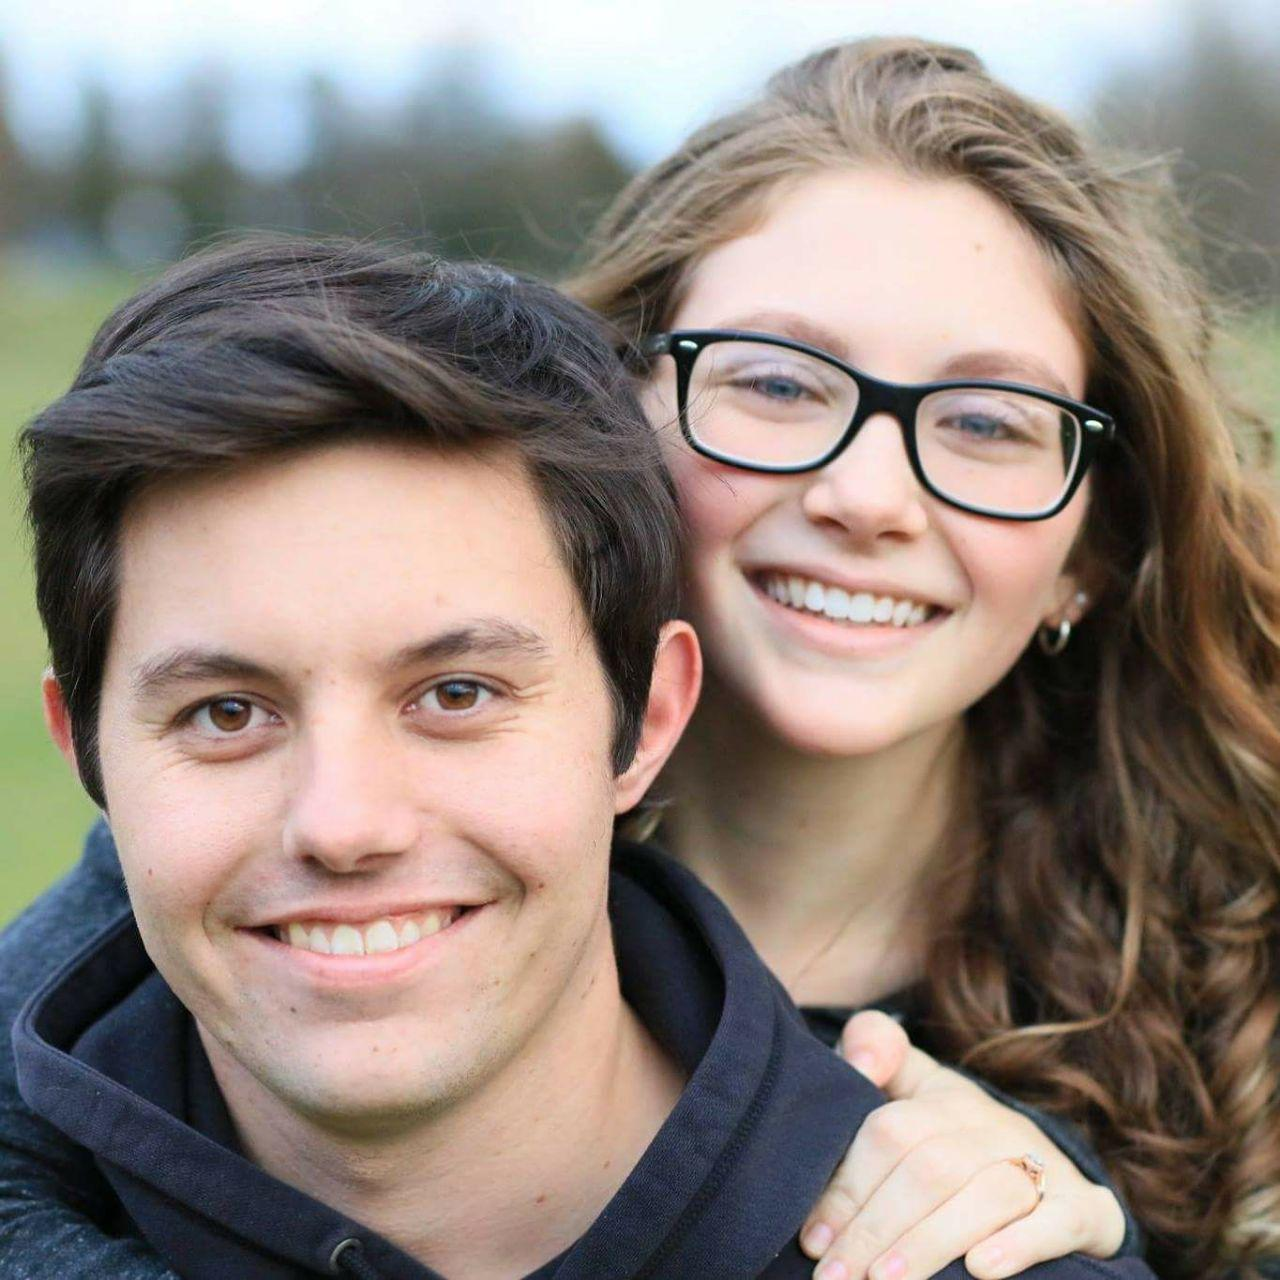
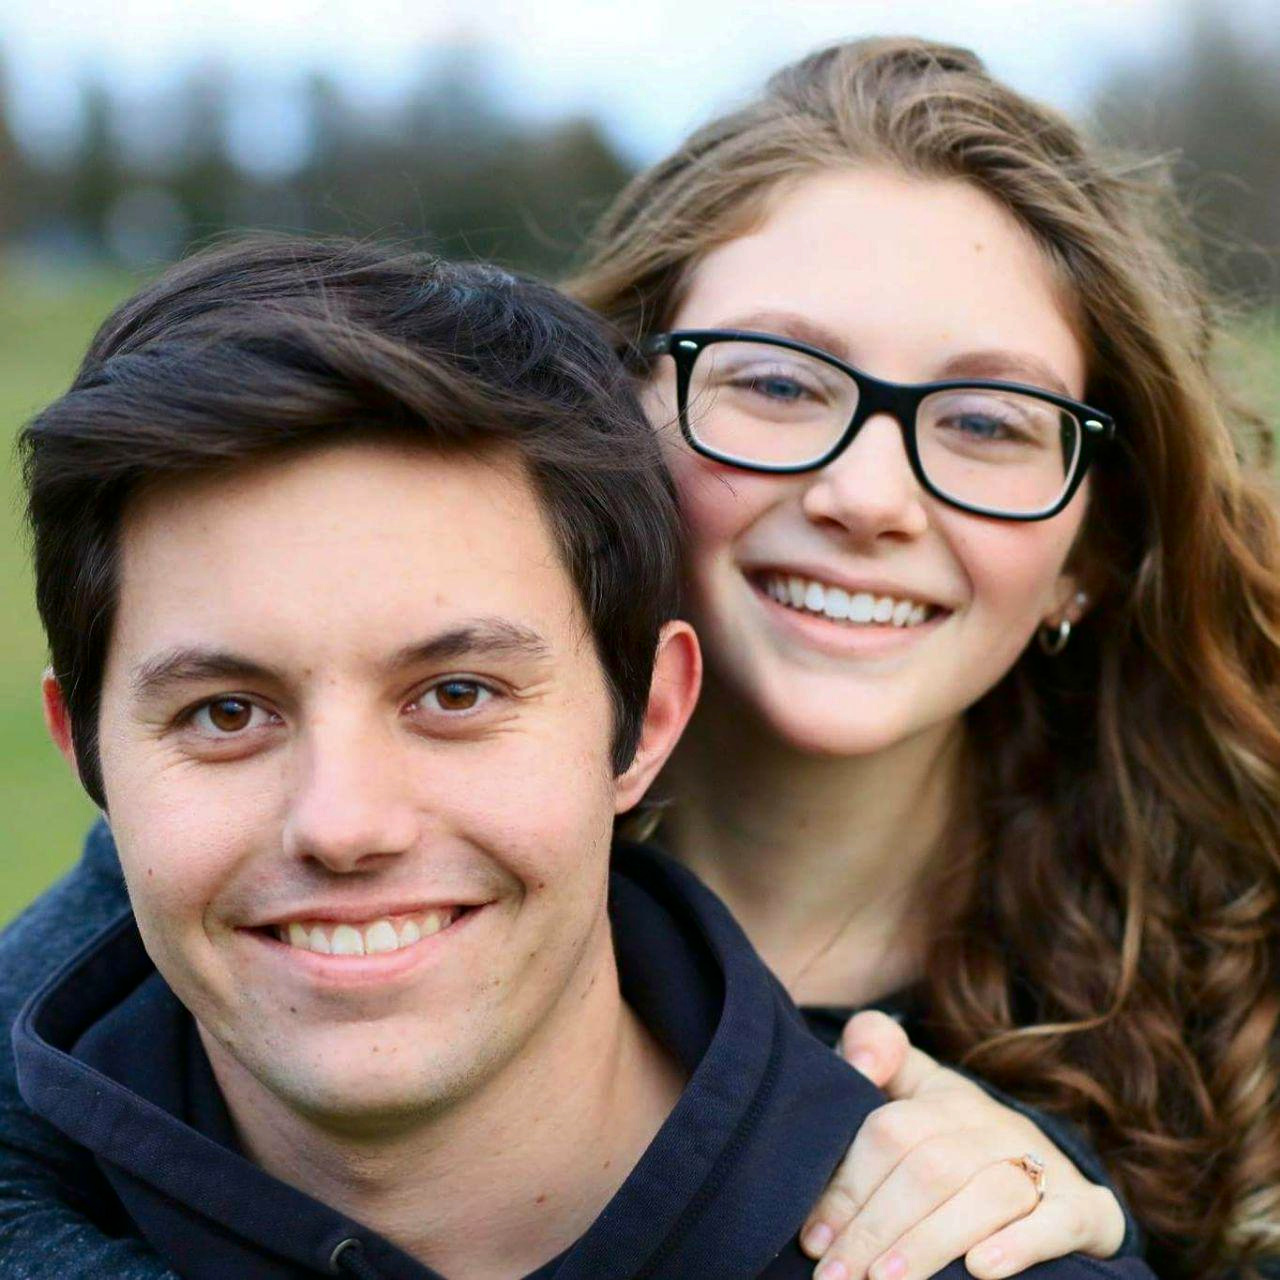
Wedding website now has an RSVP section and edited new pictures

diff --git a/templates/mainpage.html b/templates/mainpage.html
@@ -9,14 +9,15 @@
 body,h1,h2{font-family: "Raleway", sans-serif}
 body, html {height: 100%}
 p {line-height: 2}
-.bgimg, .bgimg2 {
+.bgimg, .bgimg2, .bgimg3 {
     min-height: 100%;
     min-width: 100%;
     background-position: center;
     background-size: cover;
 }
-.bgimg {background-image: url("/static/holding_hands.jpg")}
-.bgimg2 {background-image: url("/static/main_image.jpg")}
+.bgimg {background-image: url("/static/holding_hands_2.jpg")}
+.bgimg2 {background-image: url("/static/engagement_photo_2.jpg")}
+.bgimg3 {background-image: url("/static/engagement_photo_1.jpg")}
 </style>
 <body>
 
@@ -44,7 +45,7 @@ p {line-height: 2}
 <!-- About / Josh & Abby -->
 <div class="w3-container w3-padding-64" id="us">
   <script src="//www.powr.io/powr.js?external-type=html"></script>
-   <div class="powr-countdown-timer" id="4d0f438c_1516136677"></div>
+   <div class="powr-countdown-timer" id="c7738c5b_1520699521"></div>
   <div class="w3-content">
     <h1 class="w3-center w3-text-grey"><b>Josh and Abby</b></h1>
     <img class="w3-round" src="/static/romantic2.jpg" style="width:100%;margin:32px 0">
@@ -60,7 +61,6 @@ p {line-height: 2}
 
 <!-- Background photo -->
 <div class="w3-display-container bgimg2">
-     <img class="w3-round" src="/static/silly_wilson.jpg" style="width:100%;margin:32px 0">
   <div class="w3-display-middle w3-text-white w3-center">
     <h1 class="w3-jumbo">You Are Invited</h1><br>
     <h2>Of course..</h2>
@@ -98,16 +98,16 @@ p {line-height: 2}
   </div>
 </div>
 
+<!-- Background photo -->
+<div class="w3-display-container bgimg3">
+  <div class="w3-display-middle w3-text-white w3-center">
+    <h1 class="w3-jumbo">Hope you can make it!</h1><br>
+  </div>
+</div>
+
 <!-- RSVP section -->
 <div class="w3-container w3-padding-64 w3-center w3-wide" id="rsvp">
-  <h1>HOPE YOU CAN MAKE IT!</h1>
-  <p class="w3-large">Kindly Respond via Mail by April 20th, 2018</p>
-  <p class="w3-small">to 3267 Myersville Road, Uniontown, OH 44685</p>
-  <!--
-  <p class="w3-xlarge">
-    <button onclick="document.getElementById('id01').style.display='block'" class="w3-button w3-round w3-red w3-opacity w3-hover-opacity-off" style="padding:8px 60px">RSVP</button>
-  </p>
-    -->
+<script type="text/javascript" src="https://form.jotform.com/jsform/80684668316164"></script>
 </div>
 
 <!-- RSVP modal
